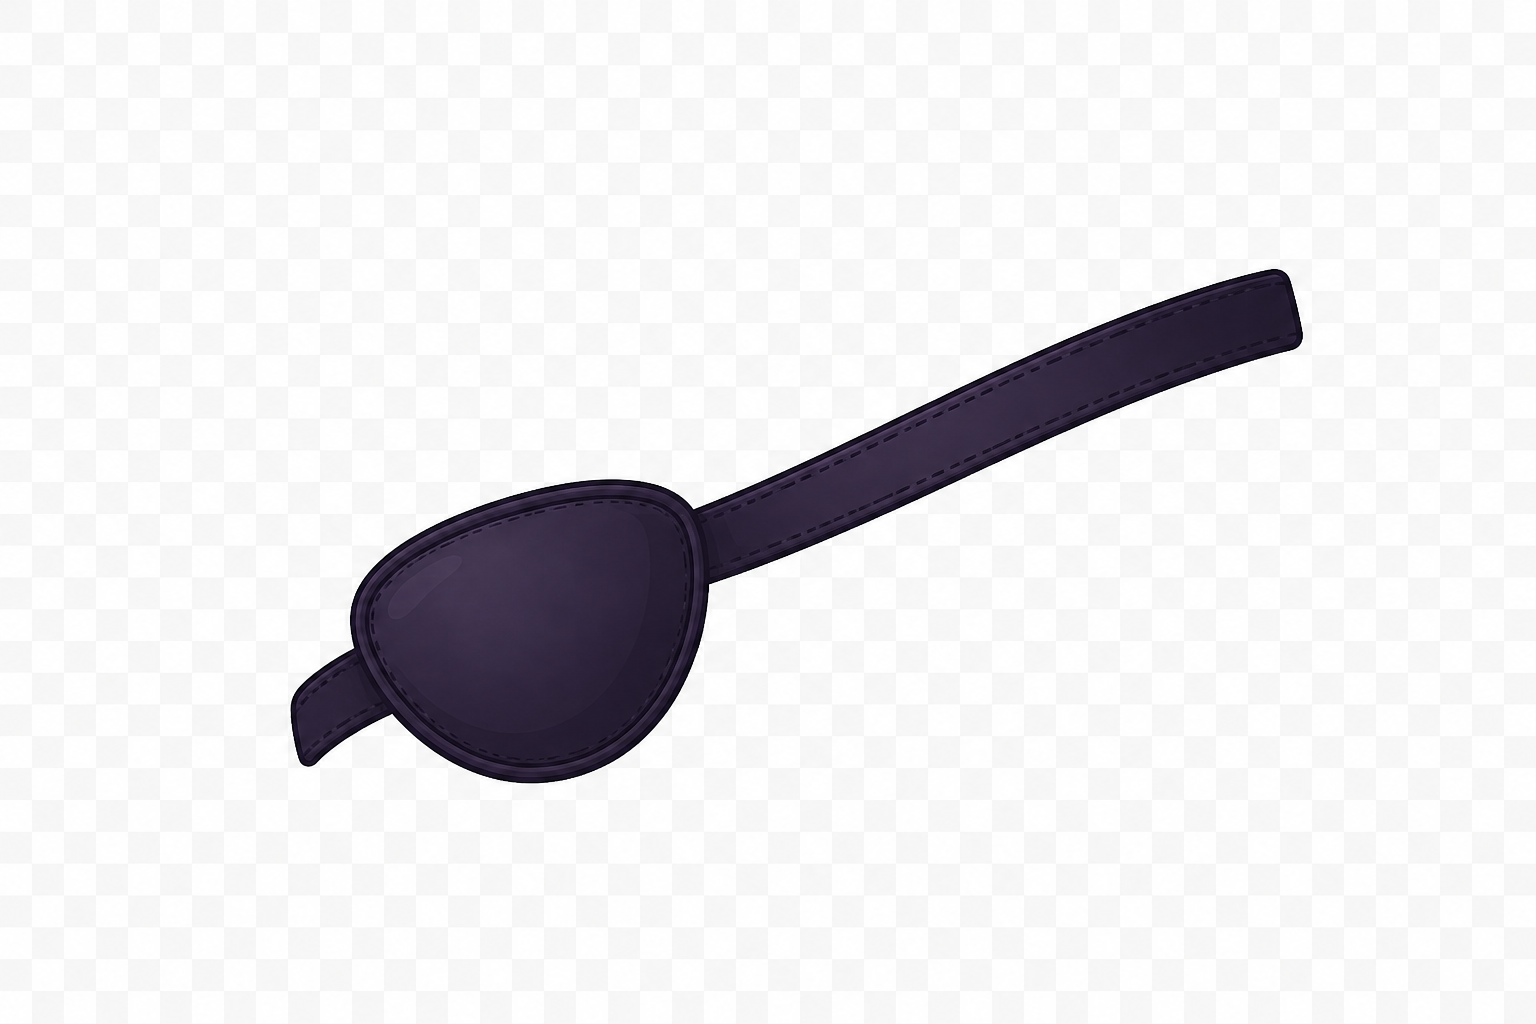
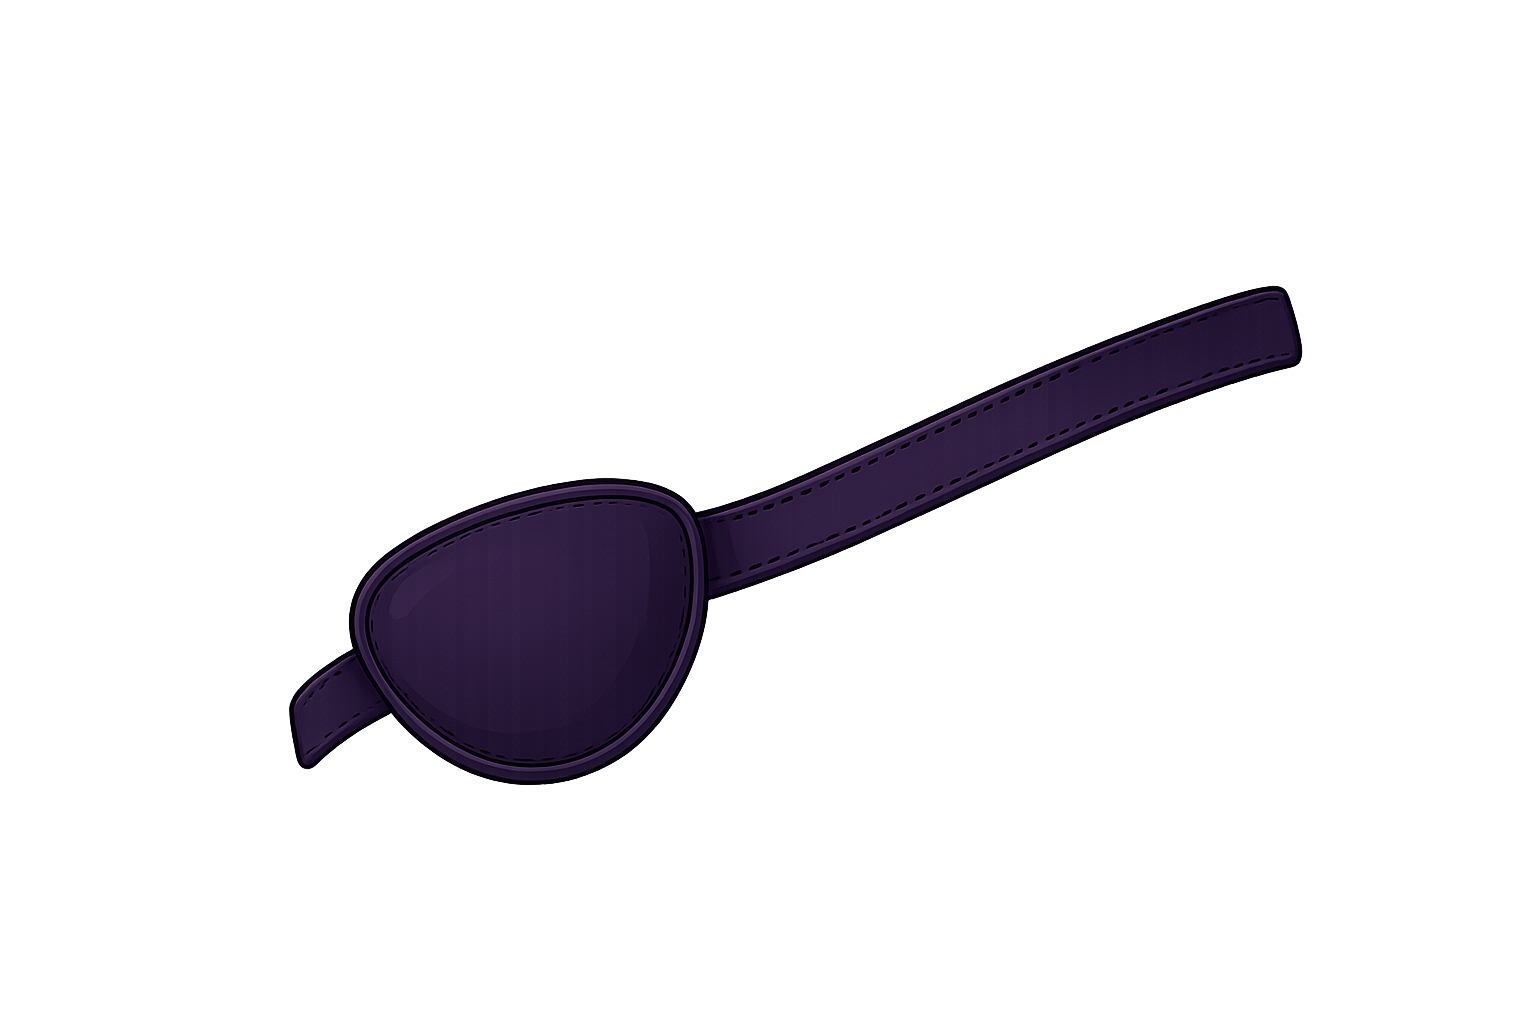
feat(mascot): enhance accessory rendering with zIndex and layout adjustments

diff --git a/frontend/components/mascot/index.tsx b/frontend/components/mascot/index.tsx
@@ -27,6 +27,18 @@ export function Mascot({ equippedItems = {}, style }: MascotProps) {
     setStageHeight(event.nativeEvent.layout.height);
   };
 
+  const equippedCatalogItems = mascotAccessorySlots
+    .map((slot) => {
+      const itemId = equippedItems[slot];
+      const item = itemId ? getMascotCatalogItem(itemId) : undefined;
+
+      return item ? { slot, item } : null;
+    })
+    .filter((item) => item !== null)
+    .sort((a, b) => {
+      return (a.item.placement?.zIndex ?? 0) - (b.item.placement?.zIndex ?? 0);
+    });
+
   return (
     <View onLayout={handleLayout} style={[styles.stage, style]}>
       <Image
@@ -34,19 +46,9 @@ export function Mascot({ equippedItems = {}, style }: MascotProps) {
         source={require('../../assets/mascot/base/octopus.png')}
         style={styles.base}
       />
-      {mascotAccessorySlots.map((slot) => {
-        const itemId = equippedItems[slot];
-        const item = itemId ? getMascotCatalogItem(itemId) : undefined;
-
-        if (!item) {
-          return null;
-        }
-
-        const translateY =
-          stageHeight * (item.placement?.translateYRatio ?? 0);
-
-        const translateX =
-          stageHeight * (item.placement?.translateXRatio ?? 0);
+      {equippedCatalogItems.map(({ slot, item }) => {
+        const translateY = stageHeight * (item.placement?.translateYRatio ?? 0);
+        const translateX = stageHeight * (item.placement?.translateXRatio ?? 0);
 
         return (
           <View
@@ -55,19 +57,16 @@ export function Mascot({ equippedItems = {}, style }: MascotProps) {
             style={[
               styles.accessoryLayer,
               {
+                zIndex: item.placement?.zIndex ?? 0,
                 transform: [
                   { translateY },
-                  {translateX},
+                  { translateX },
                   { scale: item.placement?.scale ?? 1 },
                 ],
               },
             ]}
           >
-            <Image
-              contentFit="contain"
-              source={item.asset}
-              style={styles.accessory}
-            />
+            <Image contentFit="contain" source={item.asset} style={styles.accessory} />
           </View>
         );
       })}

diff --git a/frontend/features/mascot/catalog.ts b/frontend/features/mascot/catalog.ts
@@ -26,6 +26,7 @@ export const mascotCatalog: MascotCatalogItem[] = [
       scale: 0.7,
       translateYRatio: -0.10,
       translateXRatio: 0.04,
+      zIndex: 2,
     },
     price: 0,
     slot: 'head',
@@ -36,7 +37,8 @@ export const mascotCatalog: MascotCatalogItem[] = [
     label: 'Glasses',
     placement: {
       scale: 0.55,
-      translateYRatio: -0.12,
+      translateYRatio: -0.02,
+      translateXRatio: 0.002,
     },
     price: 0,
     slot: 'eyes',
@@ -46,7 +48,9 @@ export const mascotCatalog: MascotCatalogItem[] = [
     id: 'eye-patch',
     label: 'Eye patch',
     placement: {
-      translateYRatio: -0.12,
+      scale: 0.445,
+      translateYRatio: -0.067,
+      zIndex: 1,
     },
     price: 0,
     slot: 'eyes',

diff --git a/frontend/features/mascot/types.ts b/frontend/features/mascot/types.ts
@@ -18,6 +18,7 @@ export type MascotCatalogItem = {
     scale?: number;
     translateYRatio?: number;
     translateXRatio?: number;
+    zIndex?: number;
   };
   price: number;
   slot: MascotAccessorySlot;
